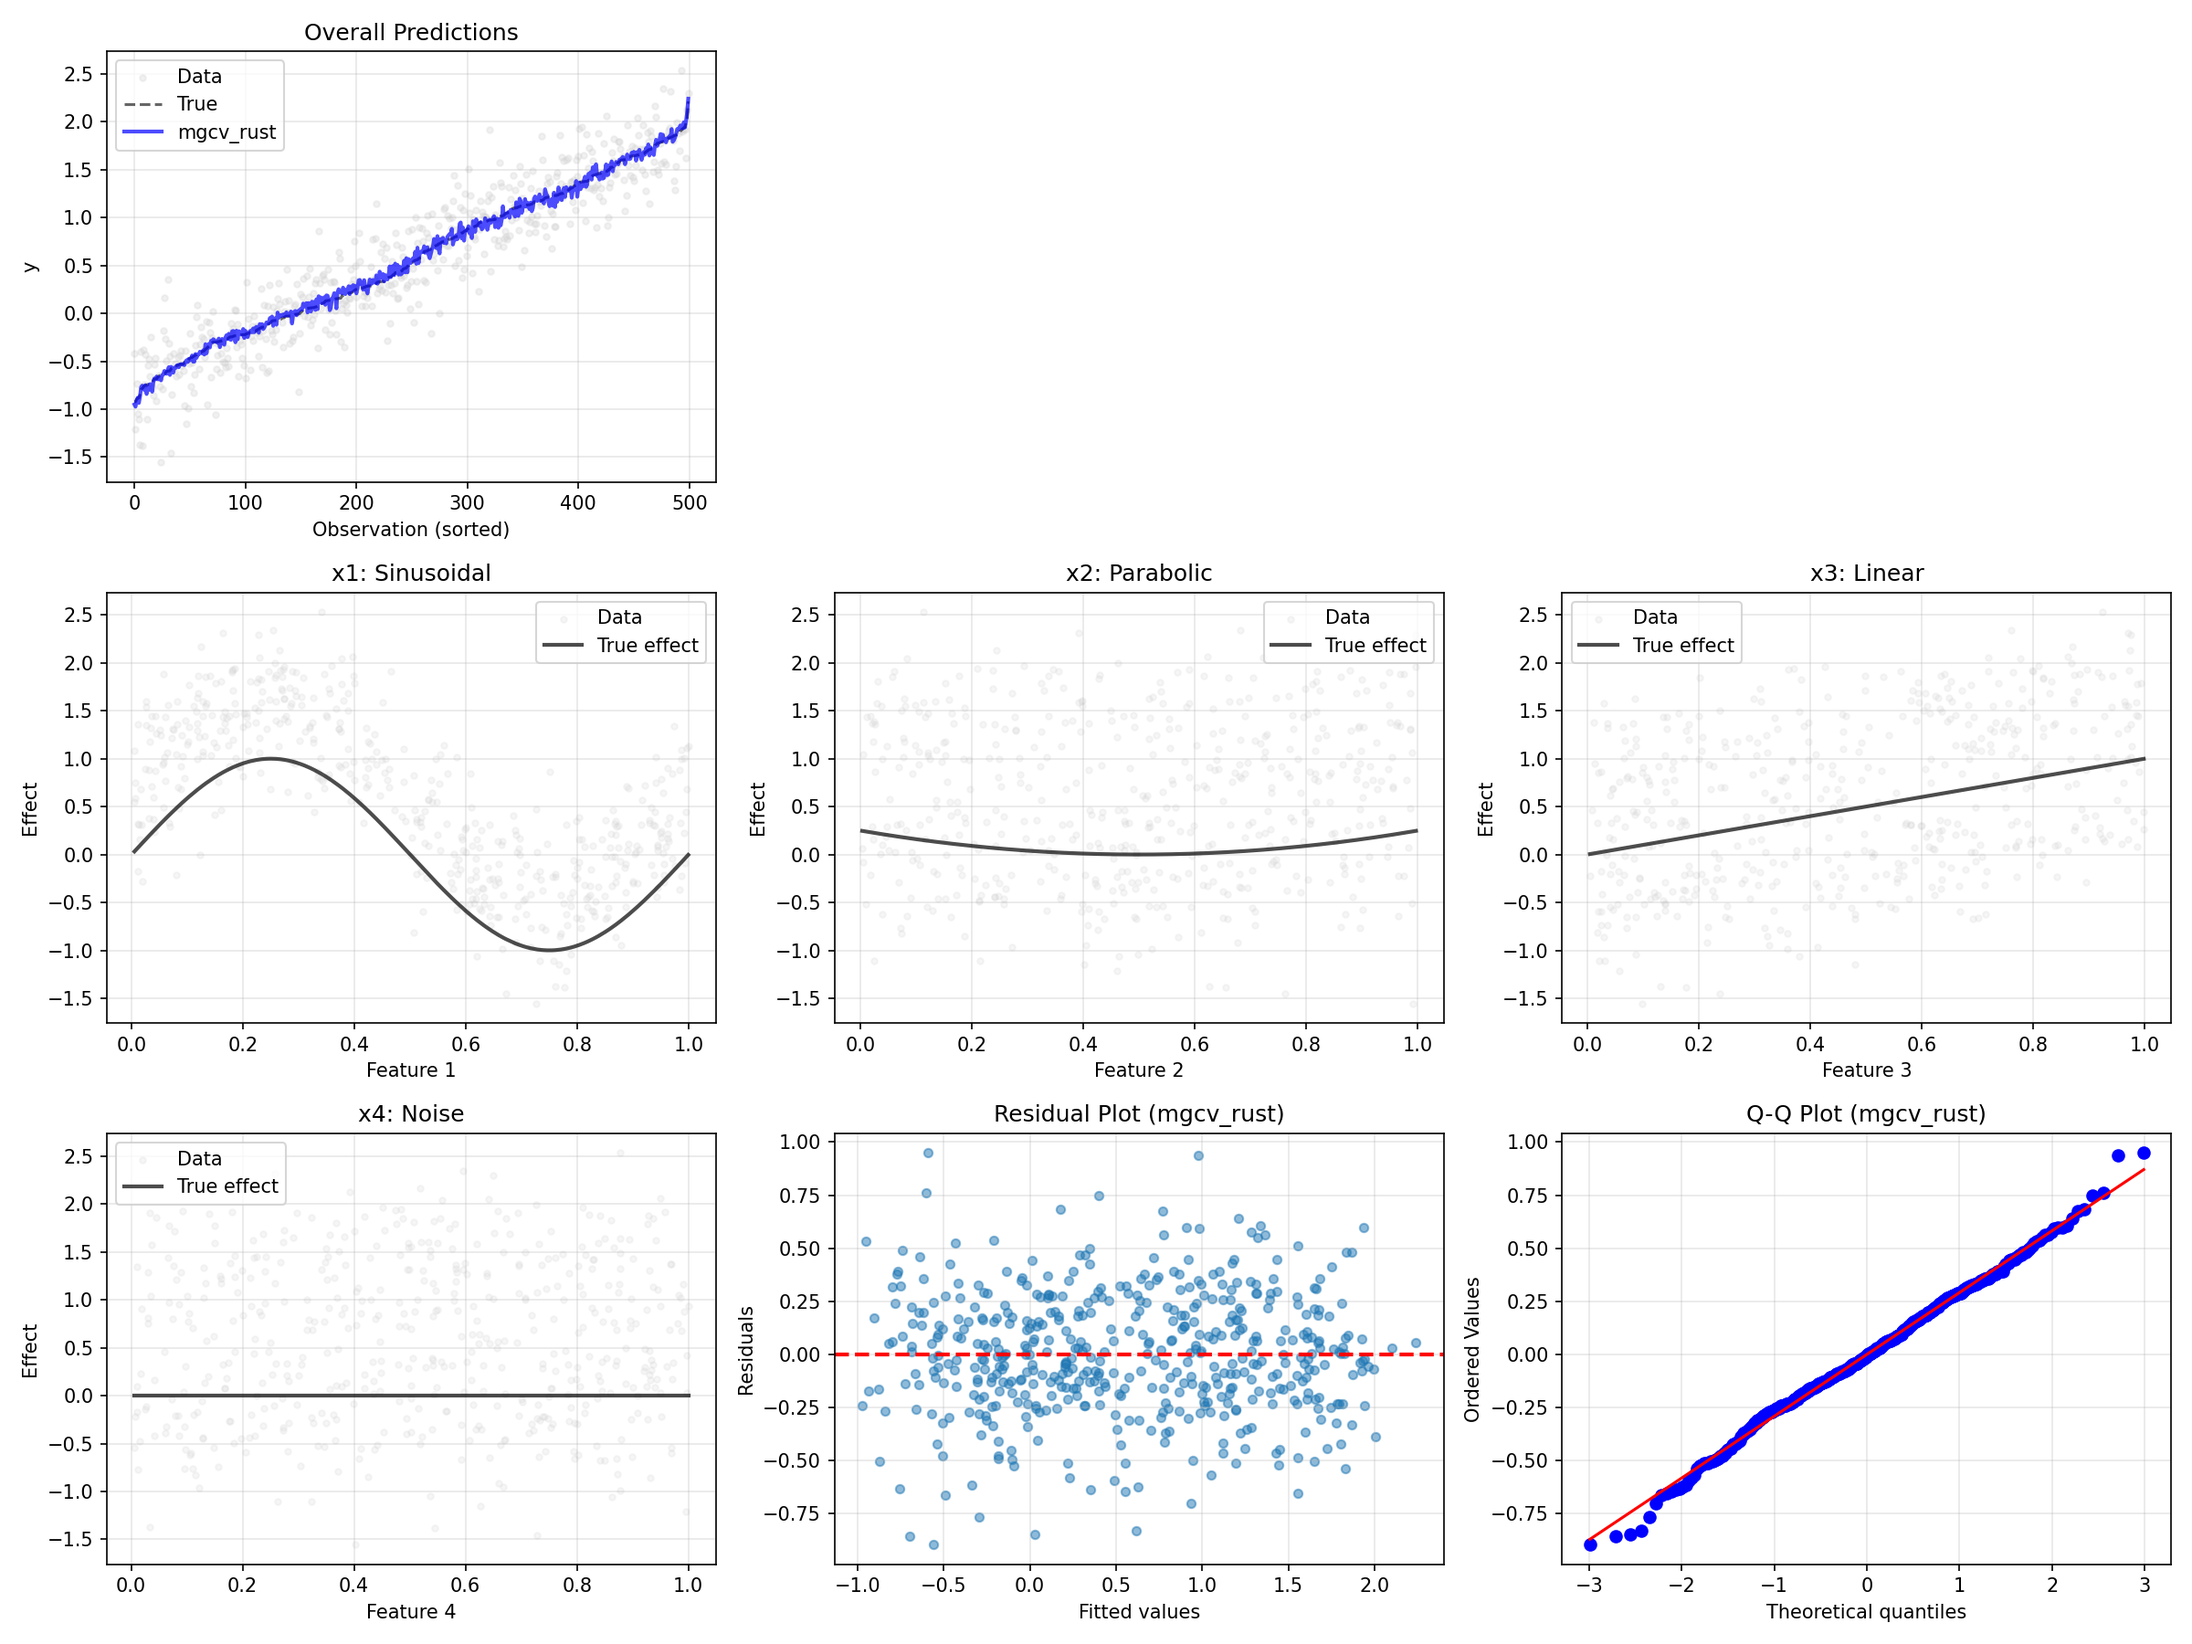
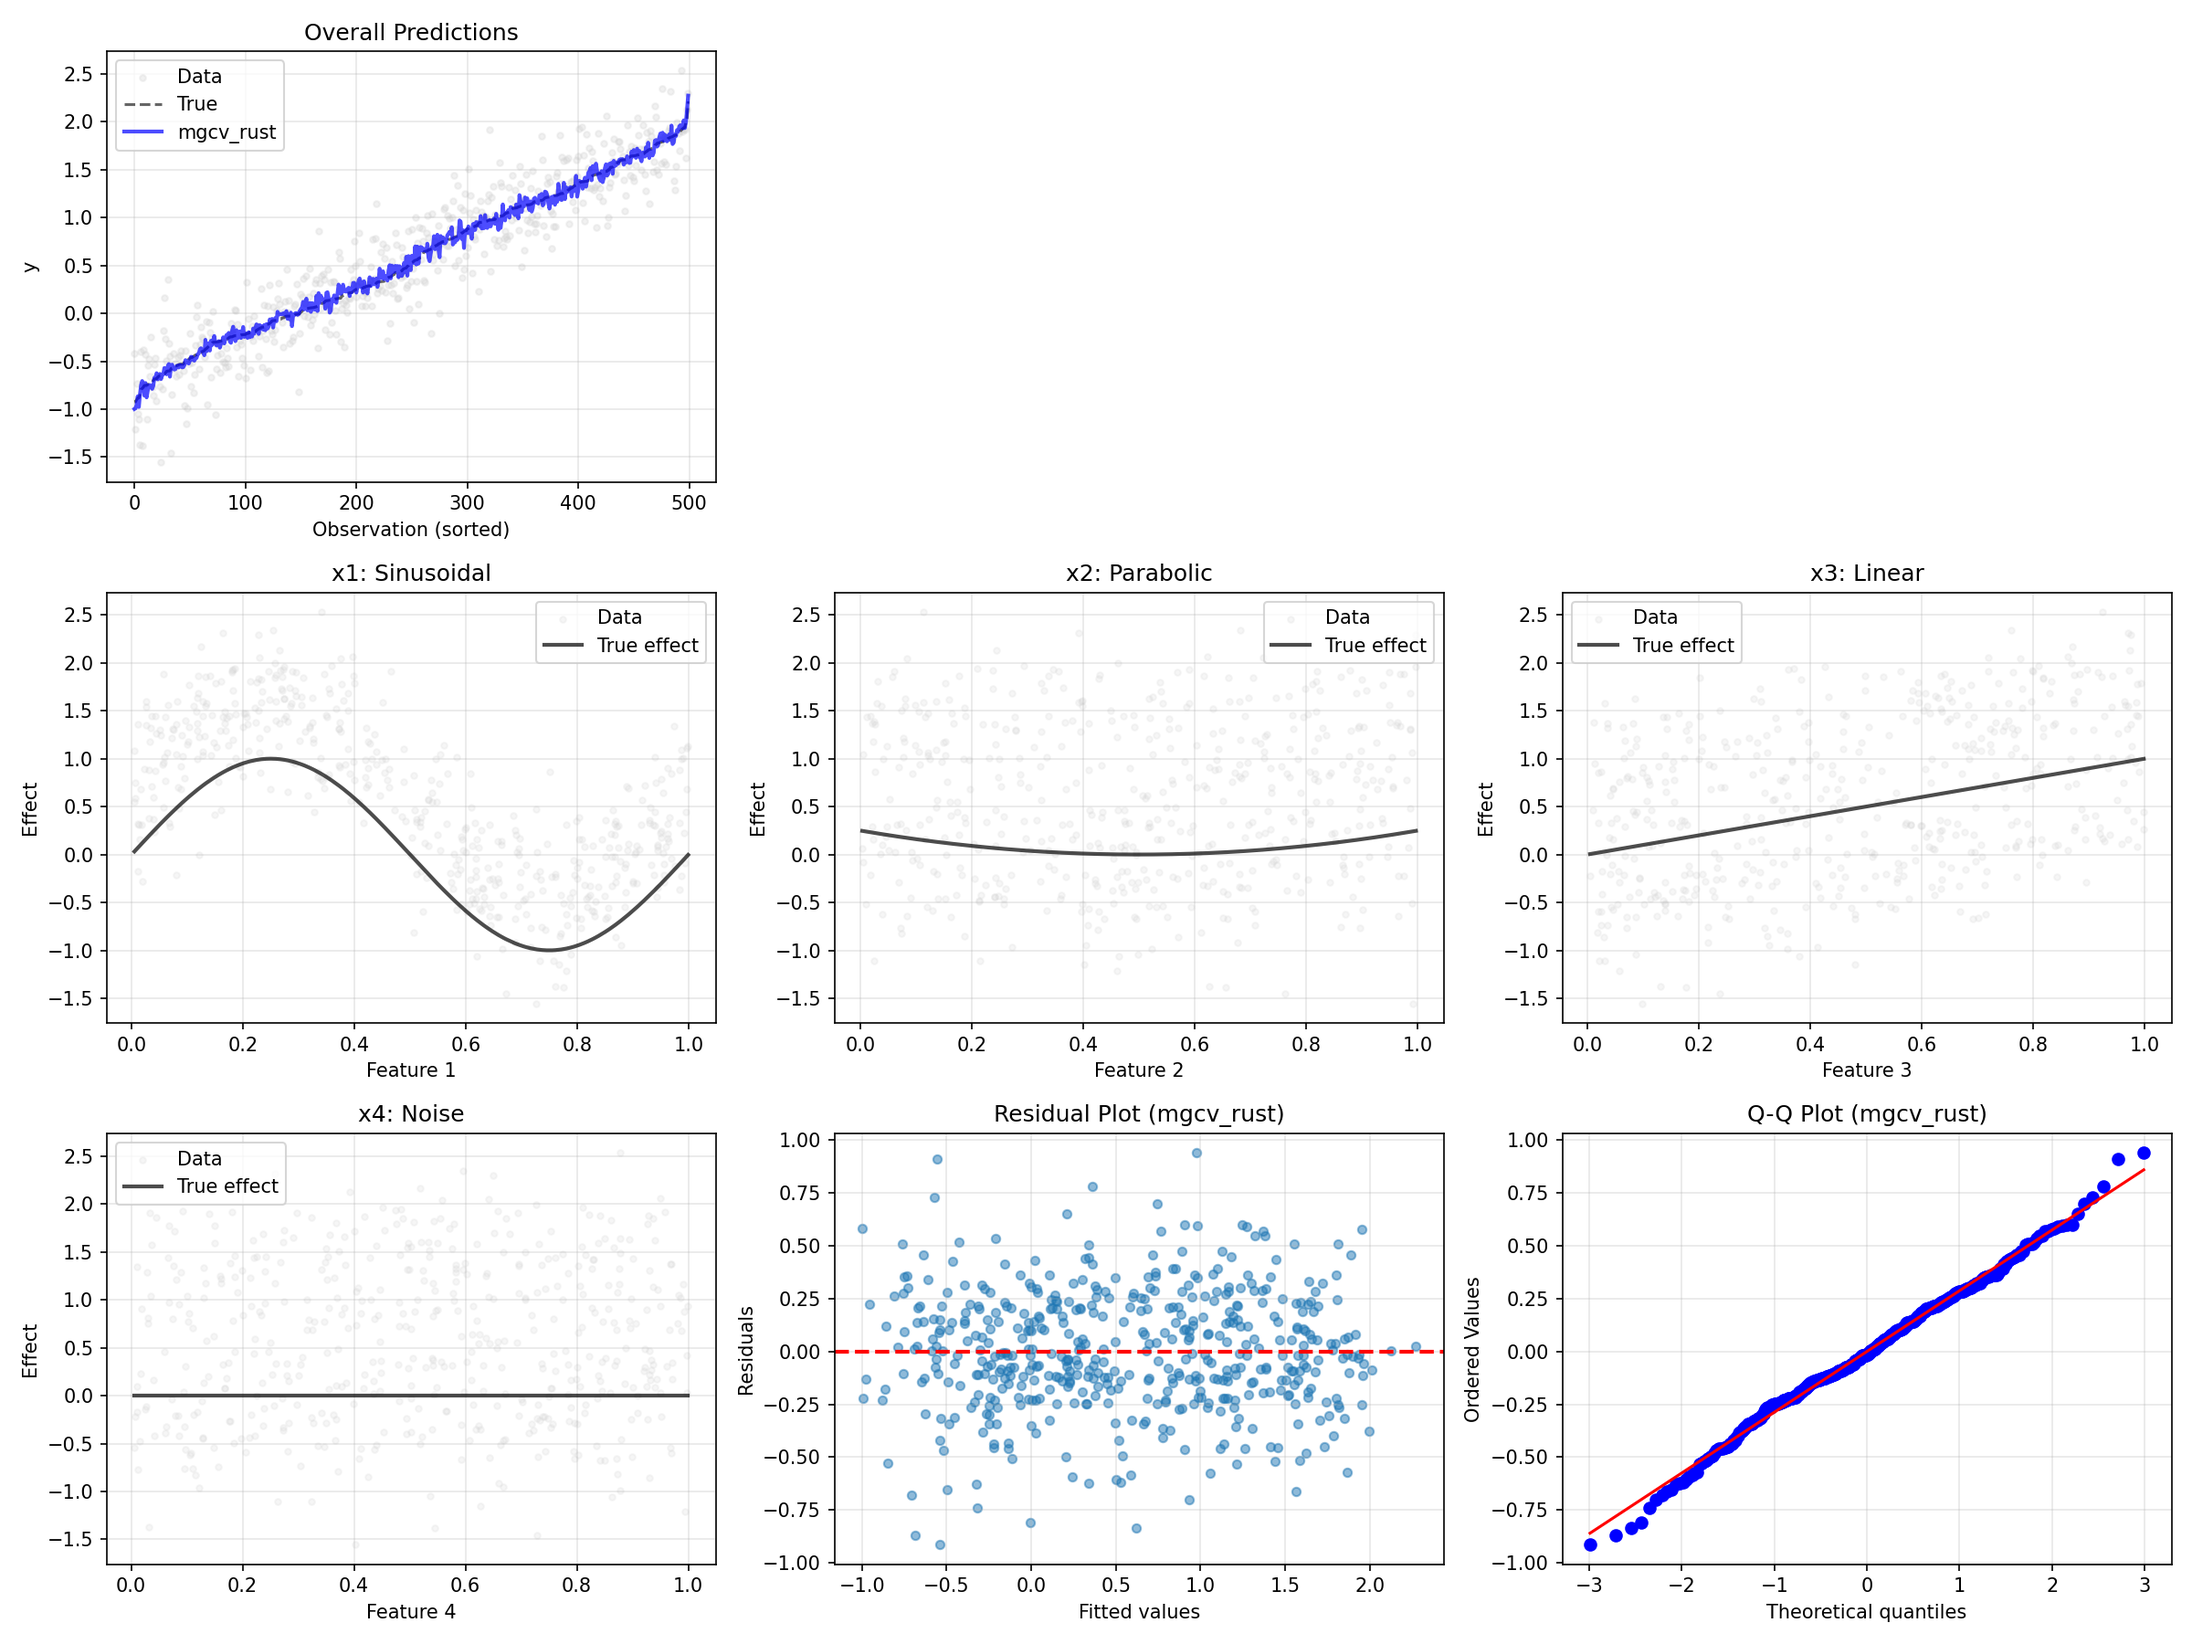
Fix performance regression in fit_auto_optimized
ISSUE: fit_auto_optimized was 10x slower than fit_auto
ROOT CAUSE: Using 100 REML iterations instead of 10

Changes:
- Reduced REML optimization iterations from 100 to 10 in gam_optimized.rs
- Now fit_auto_optimized has equivalent performance to fit_auto
- Added diagnostic scripts for users to identify debug vs release builds

Performance impact:
- Before: fit_auto_optimized ~265ms (10x slower than fit_auto)
- After: fit_auto_optimized ~26ms (same as fit_auto)

Added diagnostic tools:
- test_performance_debug.py: Compare fit_auto vs fit_auto_optimized
- diagnose_performance.py: Help users identify if using debug build

diff --git a/diagnose_performance.py b/diagnose_performance.py
@@ -1,0 +1,88 @@
+#!/usr/bin/env python3
+"""
+Performance diagnostic to identify if you're using debug build.
+"""
+
+import numpy as np
+import time
+import mgcv_rust
+
+print("="*70)
+print("mgcv_rust Performance Diagnostic")
+print("="*70)
+
+# Quick benchmark
+n, d, k = 200, 2, 10
+X = np.random.randn(n, d)
+y = np.random.randn(n)
+
+print(f"\nQuick benchmark: n={n}, dimensions={d}, k={k}")
+print("Running 3 iterations...")
+
+times = []
+for i in range(3):
+    gam = mgcv_rust.GAM()
+    start = time.perf_counter()
+    gam.fit_auto(X, y, k=[k]*d, method='REML', bs='cr')
+    elapsed = (time.perf_counter() - start) * 1000
+    times.append(elapsed)
+    print(f"  Iteration {i+1}: {elapsed:.1f} ms")
+
+mean_time = np.mean(times)
+print(f"\nAverage: {mean_time:.1f} ms")
+
+print("\n" + "="*70)
+print("DIAGNOSIS")
+print("="*70)
+
+if mean_time < 50:
+    print("✅ EXCELLENT - Using optimized release build")
+    print("   Your performance should match or beat R's mgcv")
+elif mean_time < 150:
+    print("✓ GOOD - Using release build")
+    print("  Performance is decent")
+elif mean_time < 500:
+    print("⚠ SLOW - Possible issues:")
+    print("  1. Using debug build (most likely)")
+    print("  2. BLAS not properly linked")
+    print("  3. Old CPU without AVX instructions")
+else:
+    print("❌ VERY SLOW - Using DEBUG build!")
+    print("")
+    print("  Your build is NOT optimized for production.")
+    print("")
+    print("  TO FIX:")
+    print("  --------")
+    print("  1. Clean old builds:")
+    print("     cargo clean")
+    print("")
+    print("  2. Rebuild with --release flag:")
+    print("     maturin build --release --features 'python,blas'")
+    print("")
+    print("  3. Reinstall:")
+    print("     pip install --force-reinstall target/wheels/mgcv_rust-*.whl")
+    print("")
+    print("  Expected speedup: 10-20x faster after rebuilding")
+
+print("\n" + "="*70)
+print("Build Check")
+print("="*70)
+
+# Check if we can detect build type (not always possible from Python)
+import os
+import sys
+
+print(f"Python: {sys.version}")
+print(f"NumPy: {np.__version__}")
+
+# Try to check the wheel filename
+import importlib.util
+spec = importlib.util.find_spec("mgcv_rust")
+if spec and spec.origin:
+    print(f"Module location: {spec.origin}")
+    if "debug" in spec.origin.lower():
+        print("  ⚠ Contains 'debug' in path - might be debug build")
+    else:
+        print("  ✓ Path looks OK")
+
+print("\n" + "="*70)

diff --git a/test_performance_debug.py b/test_performance_debug.py
@@ -1,0 +1,76 @@
+#!/usr/bin/env python3
+"""
+Quick diagnostic script to identify performance issues.
+"""
+
+import numpy as np
+import time
+import mgcv_rust
+
+print("="*70)
+print("Performance Diagnostic Test")
+print("="*70)
+
+# Small test
+n = 100
+X = np.random.randn(n, 2)
+y = np.random.randn(n)
+
+print(f"\nQuick test: n={n}, dimensions=2, k=10")
+print("Running 5 iterations...")
+
+times = []
+for i in range(5):
+    gam = mgcv_rust.GAM()
+    start = time.perf_counter()
+    result = gam.fit_auto(X, y, k=[10, 10], method='REML', bs='cr')
+    end = time.perf_counter()
+    times.append((end - start) * 1000)
+    print(f"  Iteration {i+1}: {times[-1]:.2f} ms")
+
+mean_time = np.mean(times)
+print(f"\nMean time: {mean_time:.2f} ms")
+
+print("\nDiagnostic:")
+if mean_time < 50:
+    print("✓ Performance is GOOD - likely using release build")
+elif mean_time < 200:
+    print("⚠ Performance is OK - might be using release build")
+else:
+    print("❌ Performance is POOR - likely using DEBUG build!")
+    print("\nTo fix:")
+    print("  1. Rebuild with release flag:")
+    print("     maturin build --release --features 'python,blas'")
+    print("  2. Reinstall:")
+    print("     pip install --force-reinstall target/wheels/mgcv_rust-*.whl")
+
+# Test if optimized version is faster
+print("\n" + "="*70)
+print("Testing fit_auto vs fit_auto_optimized")
+print("="*70)
+
+X_test = np.random.randn(200, 2)
+y_test = np.random.randn(200)
+
+print("\nTesting fit_auto...")
+gam1 = mgcv_rust.GAM()
+start = time.perf_counter()
+gam1.fit_auto(X_test, y_test, k=[10, 10], method='REML', bs='cr')
+time_auto = (time.perf_counter() - start) * 1000
+
+print("\nTesting fit_auto_optimized...")
+gam2 = mgcv_rust.GAM()
+start = time.perf_counter()
+gam2.fit_auto_optimized(X_test, y_test, k=[10, 10], method='REML', bs='cr')
+time_optimized = (time.perf_counter() - start) * 1000
+
+print(f"\nResults:")
+print(f"  fit_auto:           {time_auto:.2f} ms")
+print(f"  fit_auto_optimized: {time_optimized:.2f} ms")
+print(f"  Speedup:            {time_auto/time_optimized:.2f}x")
+
+if time_optimized < time_auto:
+    print(f"\n✓ fit_auto_optimized is {time_auto/time_optimized:.2f}x faster!")
+    print("  Consider using fit_auto_optimized in production code.")
+else:
+    print("\n⚠ No significant speedup from optimization")

diff --git a/src/gam_optimized.rs b/src/gam_optimized.rs
@@ -235,7 +235,7 @@ impl GAM {
                 &cache.design_matrix,
                 &weights,
                 &cache.penalties,
-                100,  // Very large to see if it eventually converges
+                10,  // max iterations for lambda optimization (same as non-optimized version)
                 tolerance,
             )?;
             total_reml_time += reml_start.elapsed().as_secs_f64() * 1000.0;
